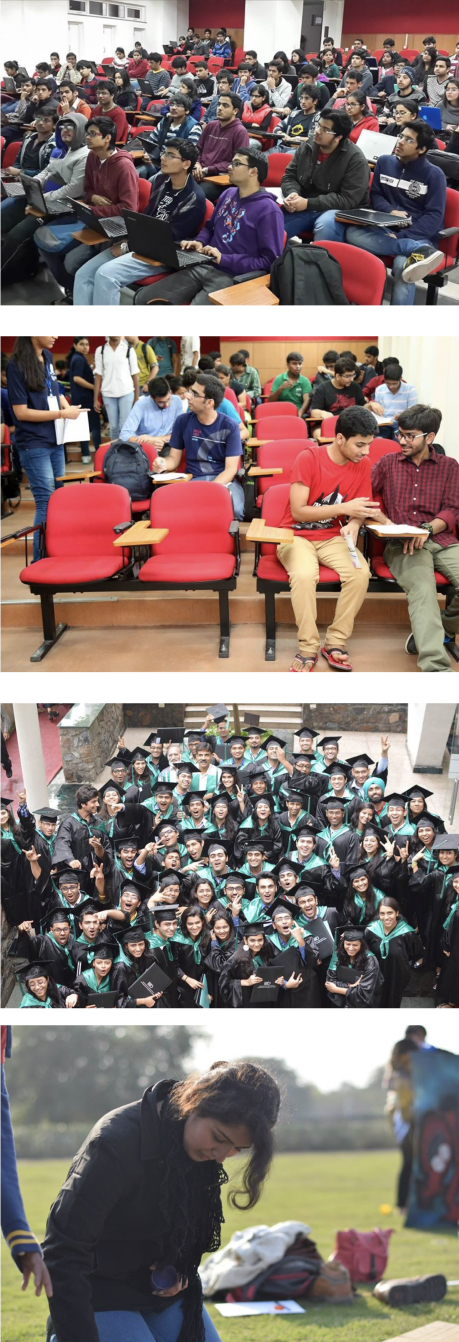
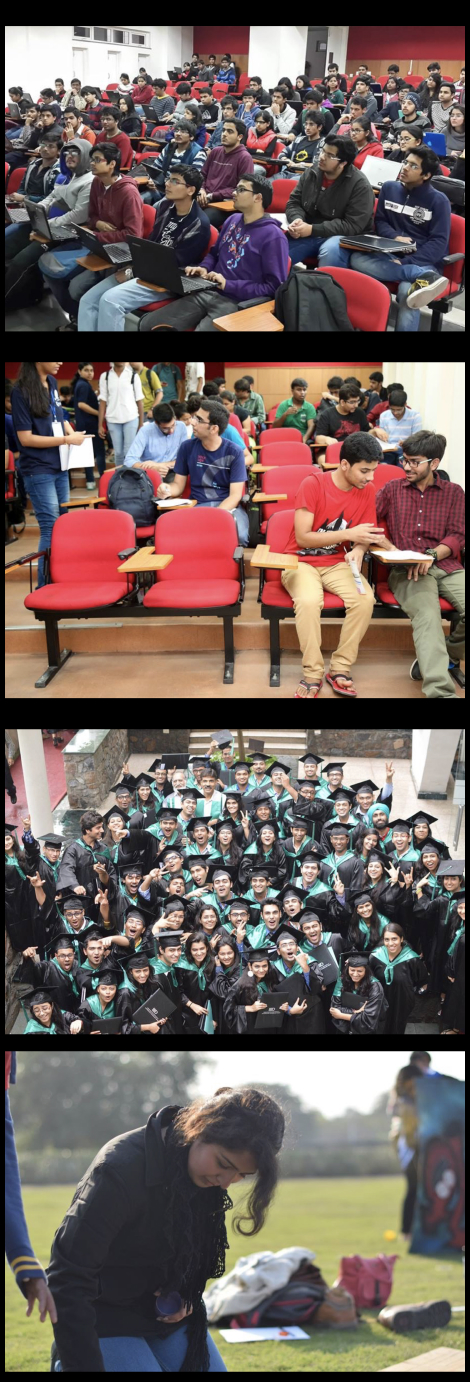
fix slideshow background

diff --git a/src/components/scss/imagecollage.scss b/src/components/scss/imagecollage.scss
@@ -1,4 +1,4 @@
-$animation-duration: 30s;
+$animation-duration: 50s;
 
 .imagecollage-container {
   width: 100%;
@@ -57,13 +57,13 @@ $animation-duration: 30s;
 
 @keyframes imagescroll-down {
   100% {
-    background-position-y: 1215px;
+    background-position-y: 1392px;
   }
 }
 
 @keyframes imagescroll-up {
   100% {
-    background-position-y: -1342px;
+    background-position-y: -1254px;
   }
 }
 
